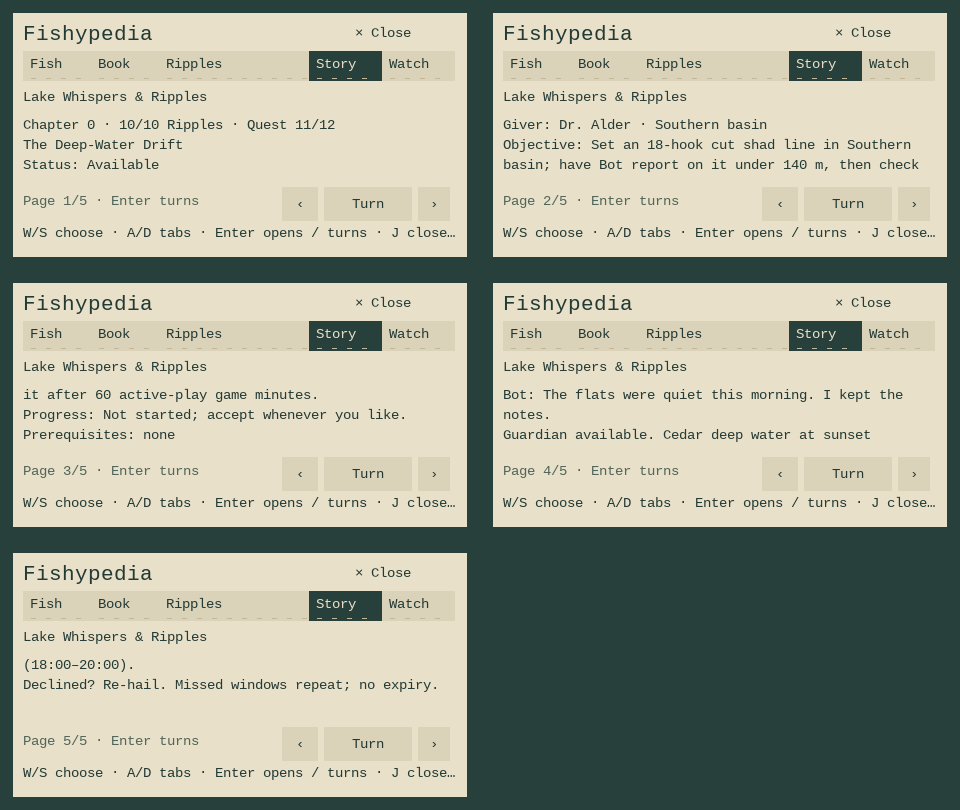
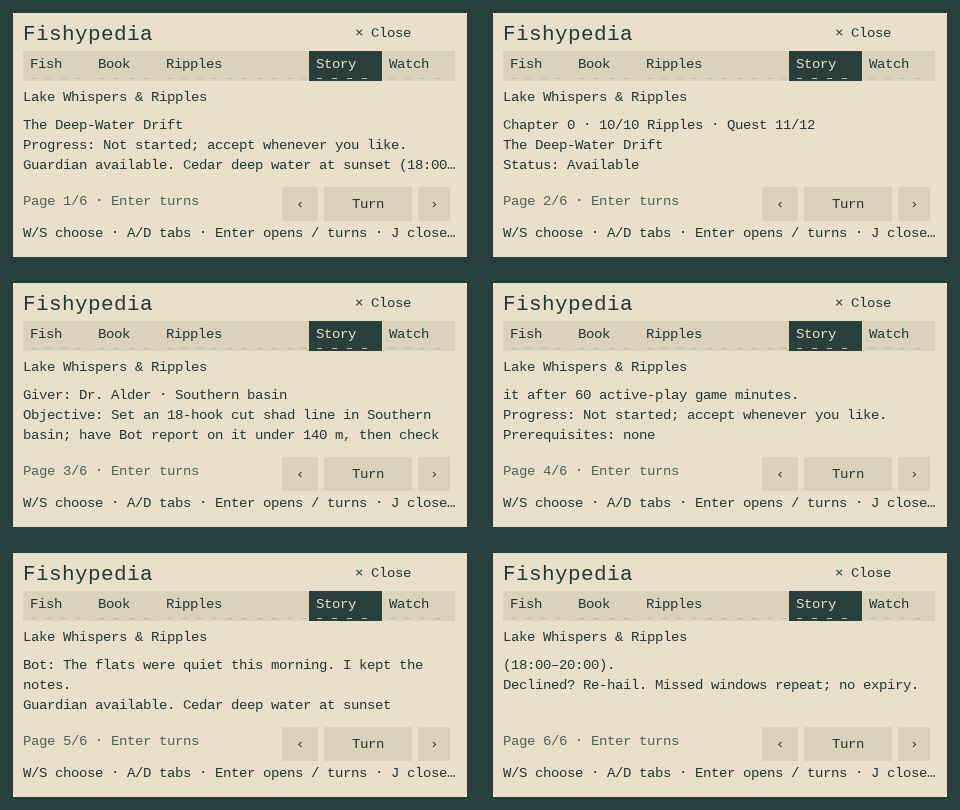
fix(book-ui): preserve compact overview and idle menu save state

diff --git a/fishing/bookview.py b/fishing/bookview.py
@@ -413,20 +413,29 @@ class BookView:
         width = self.w if compact else (self.w - 40) // 2
         top = self.y + self.u.cell(self.small if compact else self.head)[1] + 12
         rows = max(1, (self.bottom - top) // self.line)
-        values = (
-            f"Chapter {self.state.v2['story']['chapter']} · {len(set(self.state.narrative.ripples))}/10 Ripples · Quest {index+1}/{len(QUEST_IDS)}",
-            detail["title"], "Status: " + detail["status"], "Giver: " + detail["giver"],
-            "Objective: " + detail["objective"], "Progress: " + detail["progress"],
-            "Prerequisites: " + detail["prerequisites"],
-            detail["latest_bot_note"] or "No Bot notes yet.",
-            detail["guardian_status"],
-            "Declined? Re-hail. Missed windows repeat; no expiry.",
+        values = {
+            "chapter": f"Chapter {self.state.v2['story']['chapter']} · {len(set(self.state.narrative.ripples))}/10 Ripples · Quest {index+1}/{len(QUEST_IDS)}",
+            "title": detail["title"], "status": "Status: " + detail["status"],
+            "giver": "Giver: " + detail["giver"], "objective": "Objective: " + detail["objective"],
+            "progress": "Progress: " + detail["progress"],
+            "prerequisites": "Prerequisites: " + detail["prerequisites"],
+            "bot": detail["latest_bot_note"] or "No Bot notes yet.",
+            "guardian": detail["guardian_status"],
+            "reminder": "Declined? Re-hail. Missed windows repeat; no expiry.",
+        }
+        groups = (tuple(values),) if compact else (
+            ("chapter", "title", "status", "giver", "objective", "progress", "prerequisites"),
+            ("bot", "guardian", "reminder"),
         )
-        groups = (values,) if compact else (values[:7], values[7:])
-        lines = [[line for value in group for line in self.lines(value, width)]
+        lines = [[line for key in group for line in self.lines(values[key], width)]
                  for group in groups]
         pages = tuple(tuple(tuple(column[start:start + rows]) for column in lines)
                       for start in range(0, max(map(len, lines)), rows))
+        if compact:
+            # Keep the original three-line overview. Its abbreviated labels are
+            # also present in full in the following measured, wrapped pages.
+            overview = tuple(values[key] for key in ("title", "progress", "guardian"))
+            pages = ((overview[:rows],),) + pages
         return pages, top, width
 
     def story(self):

diff --git a/fishing/game.py b/fishing/game.py
@@ -143,8 +143,13 @@ class Session:
         else:
             self._menu_held.update(keys.held & NAVIGATION_KEYS)
         self._refresh_npcs()
+        previous_page = (self.ui.mode, self.ui.journal_page, self.ui.book_entry_i)
         self._keys(keys, dt)
-        self._remember_book_page()
+        current_page = (self.ui.mode, self.ui.journal_page, self.ui.book_entry_i)
+        if (current_page != previous_page or keys.pressed
+                or getattr(keys, "mouse_click", None) is not None
+                or getattr(keys, "mouse_wheel", 0)):
+            self._remember_book_page()
         self._simulate(keys, dt, driving_presses)
         self._tick_caption(dt)
 

diff --git a/docs/v1/06-IMPLEMENTATION-GUIDE.md b/docs/v1/06-IMPLEMENTATION-GUIDE.md
@@ -358,8 +358,11 @@ the existing Lake Whispers & Ripples quest details and Guardian progress.
 Story details wrap to measured glyph widths and paginate at every window size;
 Enter/A or the Turn button reaches the full objective, status, prerequisites,
 Bot note and Guardian text. The page counter wraps when the last page is turned.
+The compact opening overview keeps progress and Guardian status together;
+subsequent pages include those fields in full alongside all quest details.
 Rumors are remembered when the session opens an entry; drawing previews uses
-read-only page data. Page-control labels are centered inside their hit regions.
+read-only page data. Idle menu ticks do not record rumors. Page-control labels
+are centered inside their hit regions.
 The collection tab cycles Ripples, Keepsakes and Trophies. `--shots` includes
 every tab at text sizes 0 and 2, extra shelf and ceremony views, a contact sheet,
 and `book-benchmark.json` for the warmed 1280×720 book presentation.
